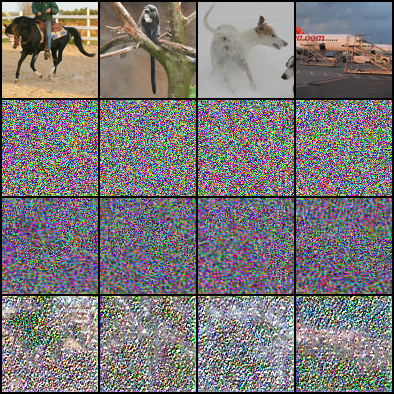
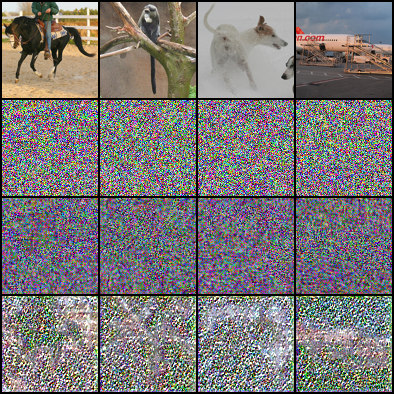
read_me_v1

diff --git a/RIC/run_pipeline2.py b/RIC/run_pipeline2.py
@@ -6,17 +6,13 @@ import base64
 import pickle
 from google.oauth2.credentials import Credentials
 from googleapiclient.discovery import build
-from email.mime.multipart import MIMEMultipart
-from email.mime.text import MIMEText
-from email.mime.base import MIMEBase
-from email import encoders
 import argparse
 
 PORT = 5001
 
 ### PATH MANAGEMENT ###
 BASE_PROJECT_PATH = "/home/yvonne/Documents/CNN_compact/"
-CLIENT_BASE_PATH = '/home/test/Documents/CNN/' 
+CLIENT_BASE_PATH = '/home/test/Documents/CNN_compact/' 
 use_iot = False
 SERVER_SCRIPT = BASE_PROJECT_PATH + "RIC/Server.py"
 CLIENT_SCRIPT = BASE_PROJECT_PATH + "RIC/IoT_client.py"
@@ -58,14 +54,6 @@ def generate_args(mode, sal_for_he, compress, sal_for_cs, encrypt, share_guide):
     
     return args
 
-# E-Mail
-SENDER_EMAIL = "xxanyuxx@gmail.com" 
-TOKEN_DIR = os.path.join(BASE_PROJECT_PATH, ".credentials")
-os.makedirs(TOKEN_DIR, exist_ok=True)
-TOKEN_FILE = os.path.join(TOKEN_DIR, 'token.pickle')    
-RECEIVER_EMAIL = "ygross_99@gmx.de" 
-SMTP_SERVER = "smtp.gmail.com"
-SMTP_PORT = 587
 
 def kill_process_on_port(port):
     """
@@ -106,7 +94,7 @@ def run_script(script_path, args, log_file, wait_for_ready=False):
         process = subprocess.Popen(['python3', script_path] + args, stdout=f, stderr=f, text=True)
     
     if wait_for_ready:
-        print("Wait 100 Sekonds, until Server is ready...")
+        print("Wait 100 Seconds, until Server is ready...")
         time.sleep(50) 
     
     return process
@@ -119,57 +107,7 @@ def get_last_lines(log_file, num_lines=50):
         lines = f.readlines()
         return "".join(lines[-num_lines:])
 
-def send_email_with_logs_and_images(server_log_content, client_log_content, image_paths, args):
-    
-    print("Sending Mail...")
-    creds = None
-    if os.path.exists(TOKEN_FILE):
-        with open(TOKEN_FILE, 'rb') as token:
-            creds = pickle.load(token)
-    
-    if not creds or not creds.valid:
-        print("Error: The Token file does not exist or is damaged. Please regenerate.")
-        return
 
-    try:
-        service = build('gmail', 'v1', credentials=creds)
-
-        message = MIMEMultipart()
-        message['to'] = RECEIVER_EMAIL
-        message['from'] = SENDER_EMAIL
-        message['subject'] = "Modell-Training- and Testreview"
-
-        body = f"Training and Test for {args} are done. Excerpt of Log Data as follows:\n\n"
-        body += "--- SERVER LOG ---\n"
-        body += server_log_content
-        body += "\n\n--- CLIENT LOG ---\n"
-        body += client_log_content
-
-        message.attach(MIMEText(body, 'plain'))
-
-        for img_path in image_paths:
-            if os.path.exists(img_path):
-                try:
-                    part = MIMEBase('application', 'octet-stream')
-                    with open(img_path, 'rb') as attachment:
-                        part.set_payload(attachment.read())
-                    encoders.encode_base64(part)
-                    part.add_header('Content-Disposition',
-                                    f"attachment; filename= {os.path.basename(img_path)}")
-                    message.attach(part)
-                except Exception as e:
-                    print(f"Error attaching Image {img_path}: {e}")
-            else:
-                print(f"Warning: Image '{img_path}' not found.")
-
-        raw_message = base64.urlsafe_b64encode(message.as_bytes()).decode()
-        
-        send_message = {'raw': raw_message}
-        (service.users().messages().send(userId='me', body=send_message).execute())
-        
-        print("E-Mail send successfully.")
-    except Exception as e:
-        print(f"Error sending Mail: {e}")
 
 def pipe(trargs, teargs, train = True):
     kill_process_on_port(PORT)
@@ -198,14 +136,6 @@ def pipe(trargs, teargs, train = True):
         #test_process.terminate() #Not needed as Server stops automatically
         print("Test completed.")
 
-    '''# Step 4: read logs
-    server_log_content = get_last_lines(SERVER_LOG)
-    client_log_content = get_last_lines(CLIENT_LOG)
-
-    # Step 5: send Mail with logs and iamges
-    image_paths_to_attach = [os.path.join(IMAGE_DIR, img_name) for img_name in IMAGES_TO_ATTACH]
-    send_email_with_logs_and_images(server_log_content, client_log_content, image_paths_to_attach, teargs)
-    '''
     print("Pipeline concluded.")
 
 def run_pipeline_for_config(sal_for_he, compress, sal_for_cs, encrypt, share_guide, train_mode=True):

diff --git a/README.md b/README.md
@@ -1,3 +1,146 @@
+# Saliency based He for IoT 
+
+Based on https://github.com/csjunjun/RIC and https://dl.acm.org/doi/10.1145/3595916.3626741
+
+## Setting up
 Add to RIC: http://richzhang.github.io/PerceptualSimilarity/
 Add to CNN_compact: https://github.com/aaron-xichen/pytorch-playground
+Data Set will download automatically (svhn and stl10)
+
+## Example Run
+### Test run
+check the hook in the code! In Server.py line 539 and 540:
+'''
+ for idx, train_batch in enumerate(test_loader):
+
+        if idx > 2:
+            break
+'''
+Currently breaking off after 3 examples for testing purposes, delete these two lines if you wish to test the whole dataset.
+
+#### Autoamtic
+For the first run it is advised to do a manual run because the dataset will download on the first run, which the pipeline is not build for!
+
+in run_pipeline2.py at your paths in line 18 and 19:
+'''
+BASE_PROJECT_PATH = "/your/path/here"
+CLIENT_BASE_PATH = '/your/path/here' 
+'''
+the path should lead to the local save point of this github directory.
+
+After line 196 in run_pipeline2.py add whatever configuration you want to run:
+
+'''
+if __name__ == "__main__":
+    sal_for_he = False
+    compress = True
+    sal_for_cs = False
+    encrypt = True
+    share_guide = True
+    
+    # Run the full pipeline (train and test) with the initial configuration
+    run_pipeline_for_config(sal_for_he, compress, sal_for_cs, encrypt, share_guide, train_mode=False)
+'''
+In this example: Pipeline to be conducted with compression and encryption both executed based on feature extraction.
+
+run the script run_pipeline2.py. You will see:
+'''
+--- Starting Testing with Flags: stl10_no_sal_he_no_sal_cs_compressed_encrypted_share_guide_color ---
+Output directory (Old files of the same flags will be overwritten!): /your/path/here/output/result2/stl10_no_sal_he_no_sal_cs_compressed_encrypted_share_guide_color/
+Suche nach blockierendem Prozess auf Port 5001...
+Fehler: 'lsof' Befehl fehlgeschlagen. Möglicherweise keine Berechtigung oder 'lsof' ist nicht installiert: Command '['sudo', 'lsof', '-t', '-i', ':5001']' returned non-zero exit status 1.
+Starting '/your/path/here/RIC/Server.py' with Arguments: ['--base_project_path=/your/path/here', '--test', '--compress', '--encrypt', '--share_guide']
+Wait 100 Seconds, until Server is ready...
+Starting '/your/path/here/RIC/IoT_client.py' with Arguments: []
+Test completed.
+Pipeline concluded.
+'''
+as of the output, you can see the logs of client and server at: /your/path/here/output/result2/stl10_no_sal_he_no_sal_cs_compressed_encrypted_share_guide_color/ --> directory changes with changed settings
+
+the server log will specify the Arguments again:
+'''
+  Mode: Test
+  Project's path: /home/yvonne/Documents/CNN_compact/
+  Compression: Yes
+  Compression guided by: Feature extraction
+  Encryption: Yes
+  Encryption guided by: Feature extraction
+  Shared Guidance: Yes
+'''
+
+and also an output directory for generated files:
+'''
+Output directory (Old files of the same flags will be overwritten!): /home/yvonne/Documents/CNN_compact/output/experiments/stl10_encrypted_feature extraction_compressed_feature extraction_shared_color/
+'''
+
+look in there, you can see the generated images under testimages and the used weights under model.
+[img]
+[img]: /CNN_compact/output/experiments/stl10_encrypted_feature%20extraction_compressed_feature%20extraction_shared_color/testimages/0.png
+to be read as in the paper.
+
+In the Server log, also keep an eye open for correct connection to the client and correct loading of the weights! It should look similar to this:
+'''
+Connecting...
+Connected to ('127.0.0.1', 48566)
+DEBUG: loading model from:  /home/yvonne/Documents/CNN_compact/
+=> Loading resume checkpoint '/home/yvonne/Documents/CNN_compact/output/experiments/stl10_encrypted_feature extraction_compressed_feature extraction_shared_color/model/reveal_network_weights.pth'
+=> Resumed from epoch 0 and model moved to cuda:0
+'''
+
+At the end you should see the quality measurements specified in the paper and a message that the server is finished:
+
+'''
+Server: Data saved through compression 2: 0.0000 MB
+Server: Client-Iterationtime for Batch 2: 0.1762s
+Server: Client-Memory-measure 2: 0.0198 MB
+Server: Client-Peak-Memory-measure 2: 2.2169 MB
+classification success rate:30/30=1.000000
+avg. l2loss_secrets:109.410602
+avg. l2loss_covers:27.005980
+avg. psnr_secrets:3.651607
+avg. ssim_secrets:0.027889
+avg. mean_pixel_errors:135.364840
+avg. lpips_errors:1.099152
+avg. lpips_scs:1.137767
+avg. mse_scs:54.203158
+avg. psnr_scs:9.789728
+avg. ssim_scs:0.024190
+avg. duration on client side: 0.356160s
+avg. memory usage on client side: 0.031177MB
+avg. peak memory usage on client side: 2.216051MB
+avg. data saved through compression: 0.000000MB
+
+Server closed - finished.
+'''
+please note, that these values are averages over the until then conducted data points. each measurement output includes information of the measurement before. (resets each rerun of course)
+
+In the client log, also keep an eye open for correct connection and model weights handling:
+'''
+Connecting to Server...
+Connected to 127.0.0.1:5001
+=> Loading resume checkpoint '/home/yvonne/Documents/CNN_compact/output/experiments/stl10_encrypted_feature extraction_compressed_feature extraction_shared_color/model/hide_network_weights.pth'
+=> Resumed from epoch 0 and model moved to cuda.
+=> Loading resume checkpoint '/home/yvonne/Documents/CNN_compact/output/experiments/stl10_encrypted_feature extraction_compressed_feature extraction_shared_color/model/prep_network_weights.pth'
+=> Resumed from epoch 0 and model moved to cuda.
+'''
+
+also, the client always ends with:
+'''
+Server connection lost or no data left to compute.
+Client shut down.
+'''
+this either means the pipeline ran through correctly or that there was an error on server side - if the server log looks good, it is the former.
+
+#### Manual
+
+### Train run
+#### Automatic
+in run_pipeline2.py at your paths in line 18 and 19:
+'''
+BASE_PROJECT_PATH = "/your/path/here"
+CLIENT_BASE_PATH = '/your/path/here' 
+'''
+the path should lead to the local save point of this github directory.
+#### Manual
+
 
